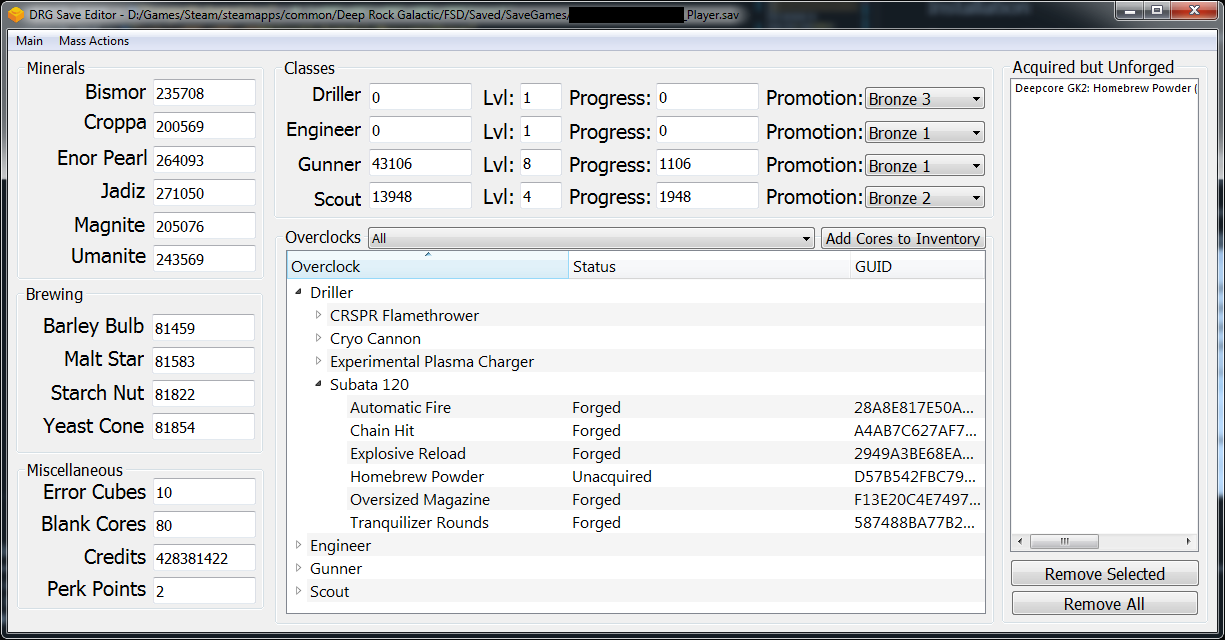
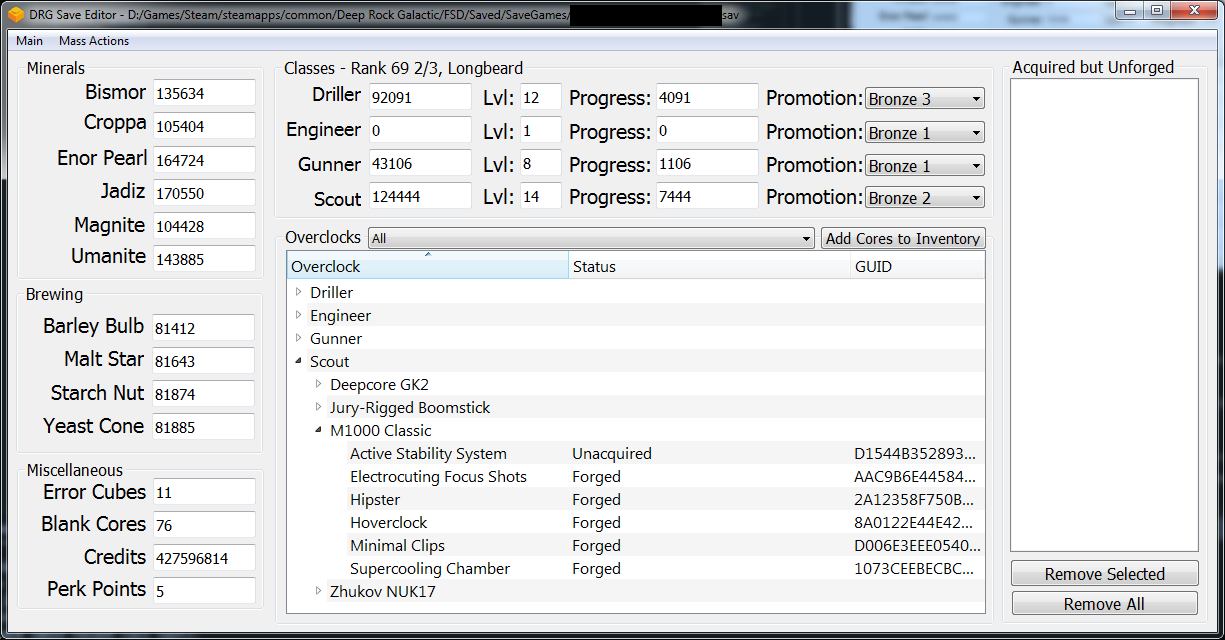
v1.3.4

diff --git a/src/main/python/main.py b/src/main/python/main.py
@@ -127,6 +127,36 @@ def update_xp(dwarf, total_xp=0):
         level_box.setText(str(level))
         remainder_box.setText(str(remainder))
 
+    update_rank()
+
+
+def update_rank():
+    s_promo = widget.scout_promo_box.currentIndex()
+    e_promo = widget.engineer_promo_box.currentIndex()
+    g_promo = widget.gunner_promo_box.currentIndex()
+    d_promo = widget.driller_promo_box.currentIndex()
+
+    try:
+        s_level = int(widget.sc_lvl_text.text())
+        e_level = int(widget.en_lvl_text.text())
+        g_level = int(widget.gu_lvl_text.text())
+        d_level = int(widget.dr_lvl_text.text())
+        total_levels = ((s_promo + e_promo + g_promo + d_promo)*25) + s_level + e_level + g_level + d_level - 4
+        rank = total_levels // 3  # integer division
+        rem = total_levels % 3
+    except:
+        rank = 1
+        rem = 0
+
+    try:
+        title = rank_titles[rank]
+    except:
+        title = "Lord of the Deep"
+
+    widget.classes_group.setTitle(f'Classes - Rank {rank+1} {rem}/3, {title}')
+
+    # groupbox.setTitle(string)
+
 
 @Slot()
 def open_file():
@@ -157,6 +187,7 @@ def open_file():
     global stats
     stats = init_values(save_data)
     reset_values()
+    update_rank()
 
     global forged_ocs
     global unacquired_ocs
@@ -775,6 +806,7 @@ def reset_values():
     populate_unforged_list(unforged_list, unforged_ocs)
 
     filter_overclocks()
+    update_rank()
 
 
 @Slot()
@@ -1041,6 +1073,85 @@ promo_ranks = [
     "Legendary 3",
 ]
 
+# ordered list of player rank titles (low -> high)
+rank_titles = [
+    'Greenbeard',
+    'Rock Hauler',
+    'Cave Runner',
+    'Stone Breaker',
+    'Pit Delver',
+    'Rookie Miner',
+    'Rookie Miner',
+    'Authorized Miner',
+    'Authorized Miner',
+    'Senior Miner',
+    'Senior Miner',
+    'Professional Miner',
+    'Professional Miner',
+    'Veteran Miner',
+    'Veteran Miner',
+    'Expert Miner',
+    'Expert Miner',
+    'Elite Miner',
+    'Elite Miner',
+    'Elite Miner',
+    'Supreme Miner',
+    'Supreme Miner',
+    'Supreme Miner',
+    'Master Miner',
+    'Master Miner',
+    'Master Miner',
+    'Epic Miner',
+    'Epic Miner',
+    'Epic Miner',
+    'Epic Miner',
+    'Legendary Miner',
+    'Legendary Miner',
+    'Legendary Miner',
+    'Legendary Miner',
+    'Legendary Miner',
+    'Mythic Miner',
+    'Mythic Miner',
+    'Mythic Miner',
+    'Mythic Miner',
+    'Mythic Miner',
+    'Stone Guard',
+    'Stone Guard',
+    'Stone Guard',
+    'Stone Guard',
+    'Stone Guard',
+    'Honor Guard',
+    'Honor Guard',
+    'Honor Guard',
+    'Honor Guard',
+    'Honor Guard',
+    'Iron Guard',
+    'Iron Guard',
+    'Iron Guard',
+    'Iron Guard',
+    'Iron Guard',
+    'Giant Guard',
+    'Giant Guard',
+    'Giant Guard',
+    'Giant Guard',
+    'Giant Guard',
+    'Night Carver',
+    'Night Carver',
+    'Night Carver',
+    'Night Carver',
+    'Night Carver',
+    'Longbeard',
+    'Longbeard',
+    'Longbeard',
+    'Longbeard',
+    'Longbeard',
+    'Gilded Master',
+    'Gilded Master',
+    'Gilded Master',
+    'Gilded Master',
+    'Gilded Master',
+]
+
 # global variable definitions
 forged_ocs = dict()
 unforged_ocs = dict()
@@ -1109,6 +1220,10 @@ if __name__ == "__main__":
     widget.add_cores_button.clicked.connect(add_cores)
     widget.remove_all_ocs.clicked.connect(remove_all_ocs)
     widget.remove_selected_ocs.clicked.connect(remove_selected_ocs)
+    widget.driller_promo_box.currentIndexChanged.connect(update_rank)
+    widget.engineer_promo_box.currentIndexChanged.connect(update_rank)
+    widget.gunner_promo_box.currentIndexChanged.connect(update_rank)
+    widget.scout_promo_box.currentIndexChanged.connect(update_rank)
 
     # actually display the thing
     widget.show()

diff --git a/readme.md b/readme.md
@@ -22,6 +22,9 @@ Some notes:
 
 ![main_screen](sshot.png)
 ## Changelog
+- v1.3.4
+    - Fixed a bug related to editing perk points when using a new save or a save that doesn't have any available perk points
+    - Added player rank calculation and rank title to the classes area
 - v1.3.3
     - Fixed a bug related to opening saves that have not forged any overclocks
     - Fixed a bug where resource counts would get mixed up
